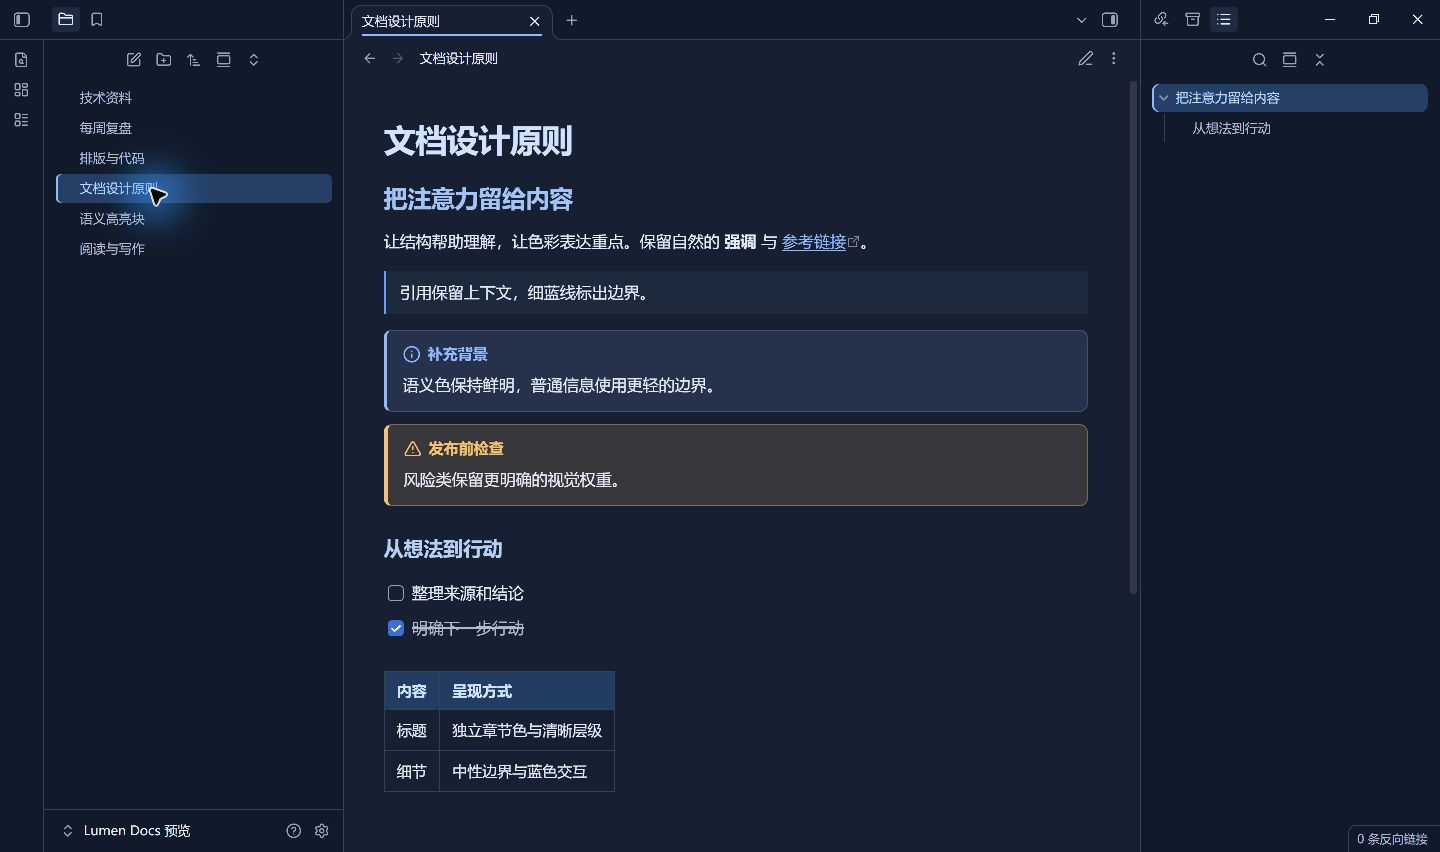
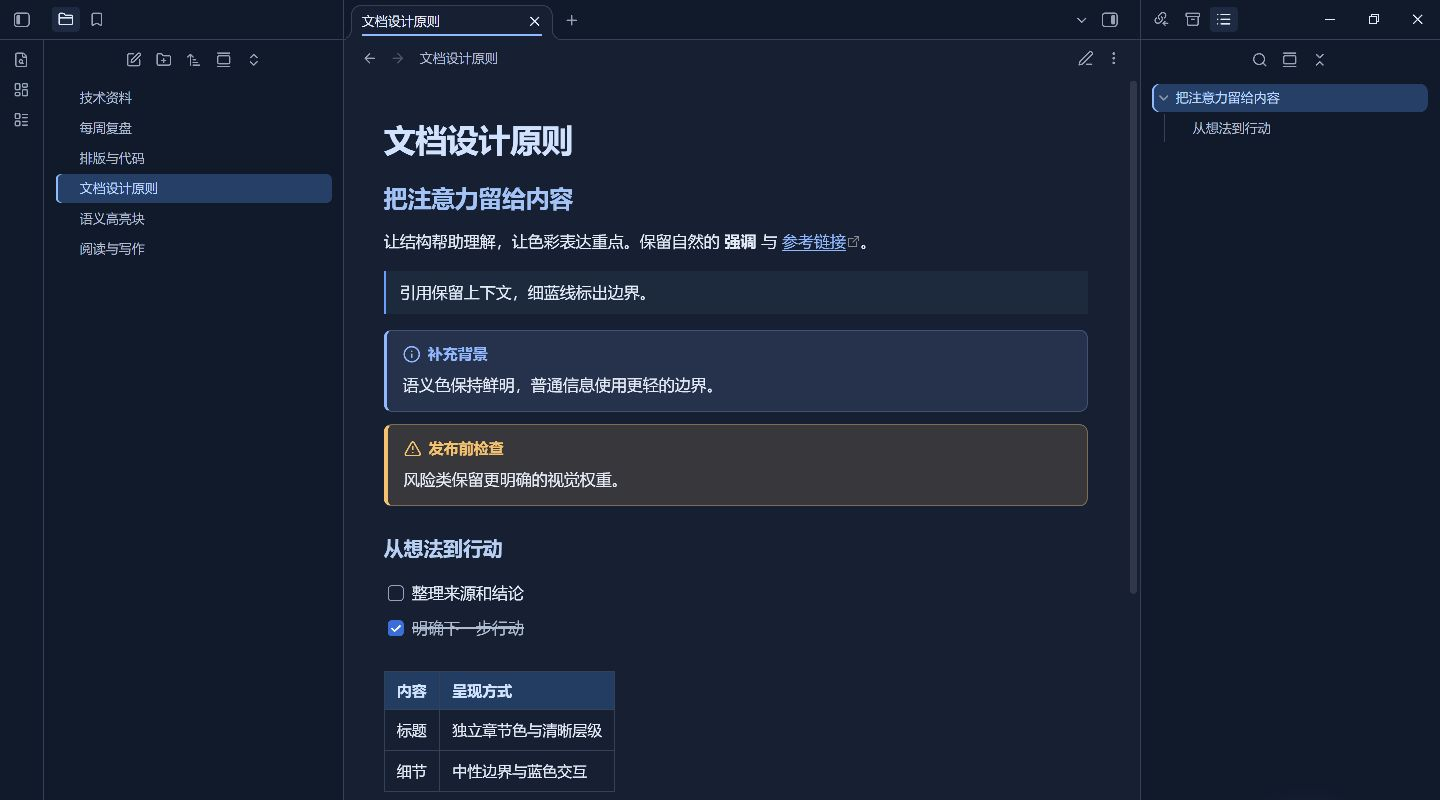
docs: recapture theme previews without cursor

diff --git a/README.md b/README.md
@@ -18,15 +18,15 @@ Captured with Lumen Docs 0.1.3 in Obsidian 1.15.0 using an isolated sample vault
 
 ### Light
 
-![Lumen Docs 0.1.3 light workspace with near-white sidebars](screenshots/interface-light.png)
+![Lumen Docs 0.1.3 light workspace with near-white sidebars](screenshots/interface-light.png?v=0.1.3-clean)
 
-[Document layout](screenshots/light.png) · [Content details](screenshots/details-light.png) · [Semantic callouts](screenshots/callouts-light.png)
+[Document layout](screenshots/light.png?v=0.1.3-clean) · [Content details](screenshots/details-light.png?v=0.1.3-clean) · [Semantic callouts](screenshots/callouts-light.png?v=0.1.3-clean)
 
 ### Dark
 
-![Lumen Docs 0.1.3 dark workspace](screenshots/interface-dark.png)
+![Lumen Docs 0.1.3 dark workspace](screenshots/interface-dark.png?v=0.1.3-clean)
 
-[Document layout](screenshots/dark.png) · [Content details](screenshots/details-dark.png) · [Semantic callouts](screenshots/callouts-dark.png)
+[Document layout](screenshots/dark.png?v=0.1.3-clean) · [Content details](screenshots/details-dark.png?v=0.1.3-clean) · [Semantic callouts](screenshots/callouts-dark.png?v=0.1.3-clean)
 
 ## Installation
 

diff --git a/README.zh-CN.md b/README.zh-CN.md
@@ -18,15 +18,15 @@
 
 ### 浅色
 
-![Lumen Docs 0.1.3 浅色工作区与接近白色的侧栏](screenshots/interface-light.png)
+![Lumen Docs 0.1.3 浅色工作区与接近白色的侧栏](screenshots/interface-light.png?v=0.1.3-clean)
 
-[文档排版](screenshots/light.png) · [内容细节](screenshots/details-light.png) · [高亮块配色](screenshots/callouts-light.png)
+[文档排版](screenshots/light.png?v=0.1.3-clean) · [内容细节](screenshots/details-light.png?v=0.1.3-clean) · [高亮块配色](screenshots/callouts-light.png?v=0.1.3-clean)
 
 ### 深色
 
-![Lumen Docs 0.1.3 深色工作区](screenshots/interface-dark.png)
+![Lumen Docs 0.1.3 深色工作区](screenshots/interface-dark.png?v=0.1.3-clean)
 
-[文档排版](screenshots/dark.png) · [内容细节](screenshots/details-dark.png) · [高亮块配色](screenshots/callouts-dark.png)
+[文档排版](screenshots/dark.png?v=0.1.3-clean) · [内容细节](screenshots/details-dark.png?v=0.1.3-clean) · [高亮块配色](screenshots/callouts-dark.png?v=0.1.3-clean)
 
 ## 安装与使用
 
